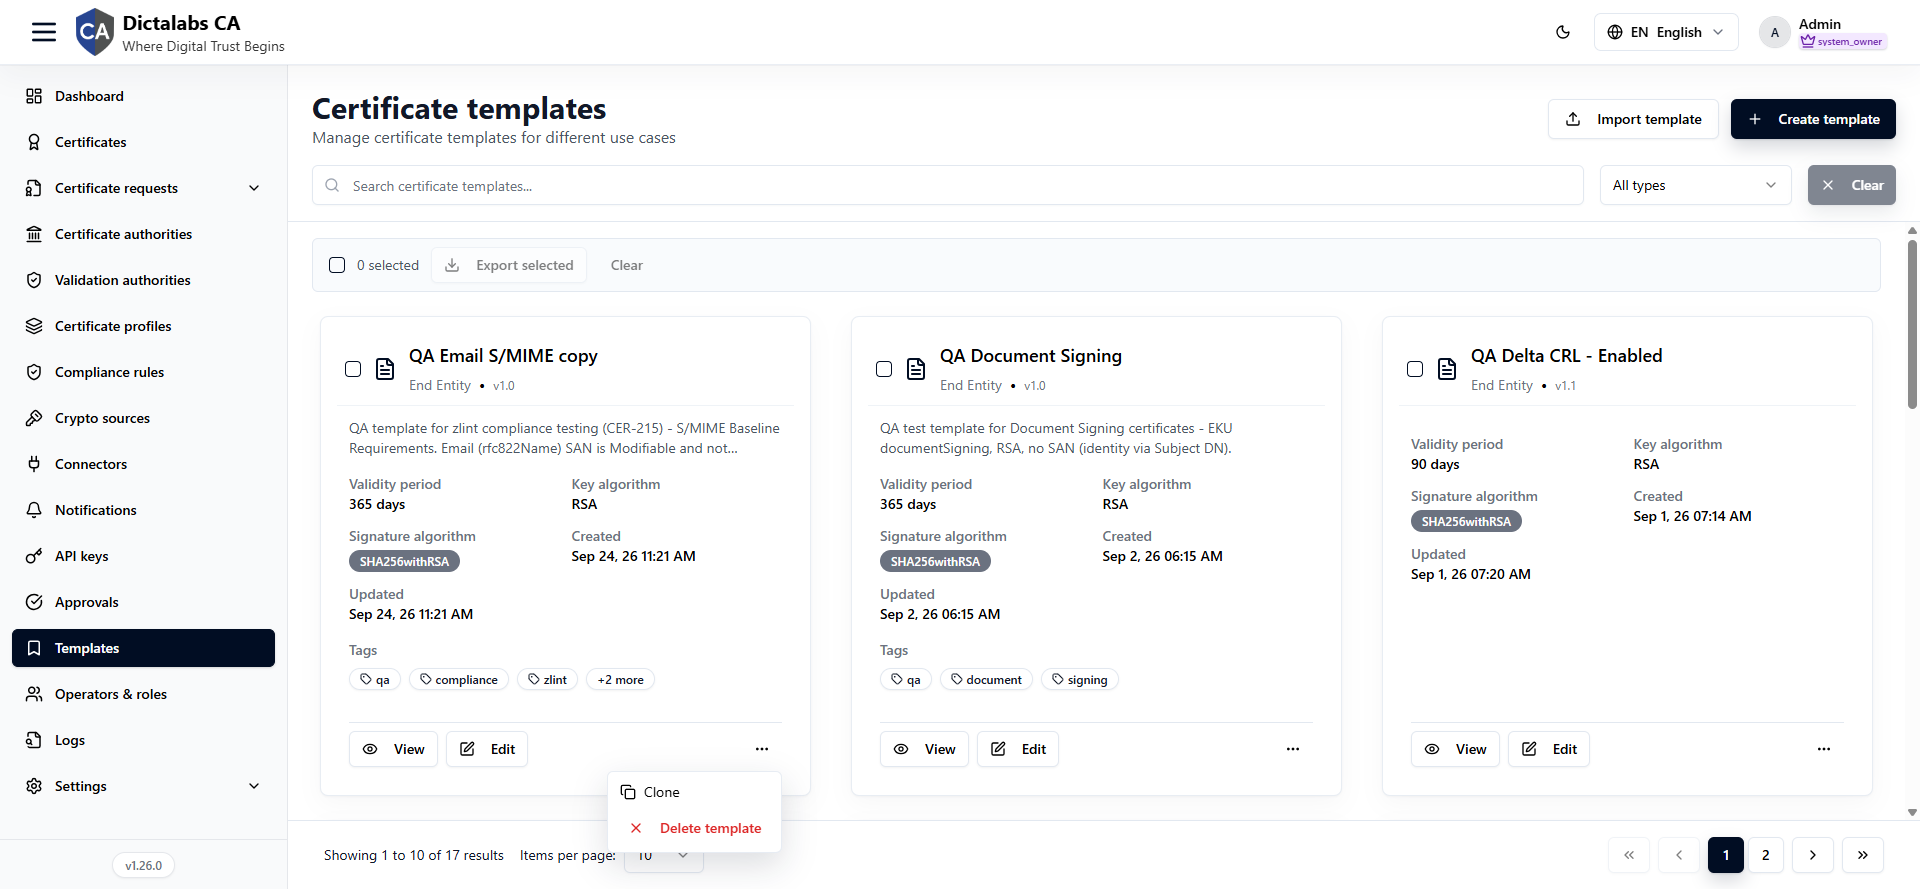
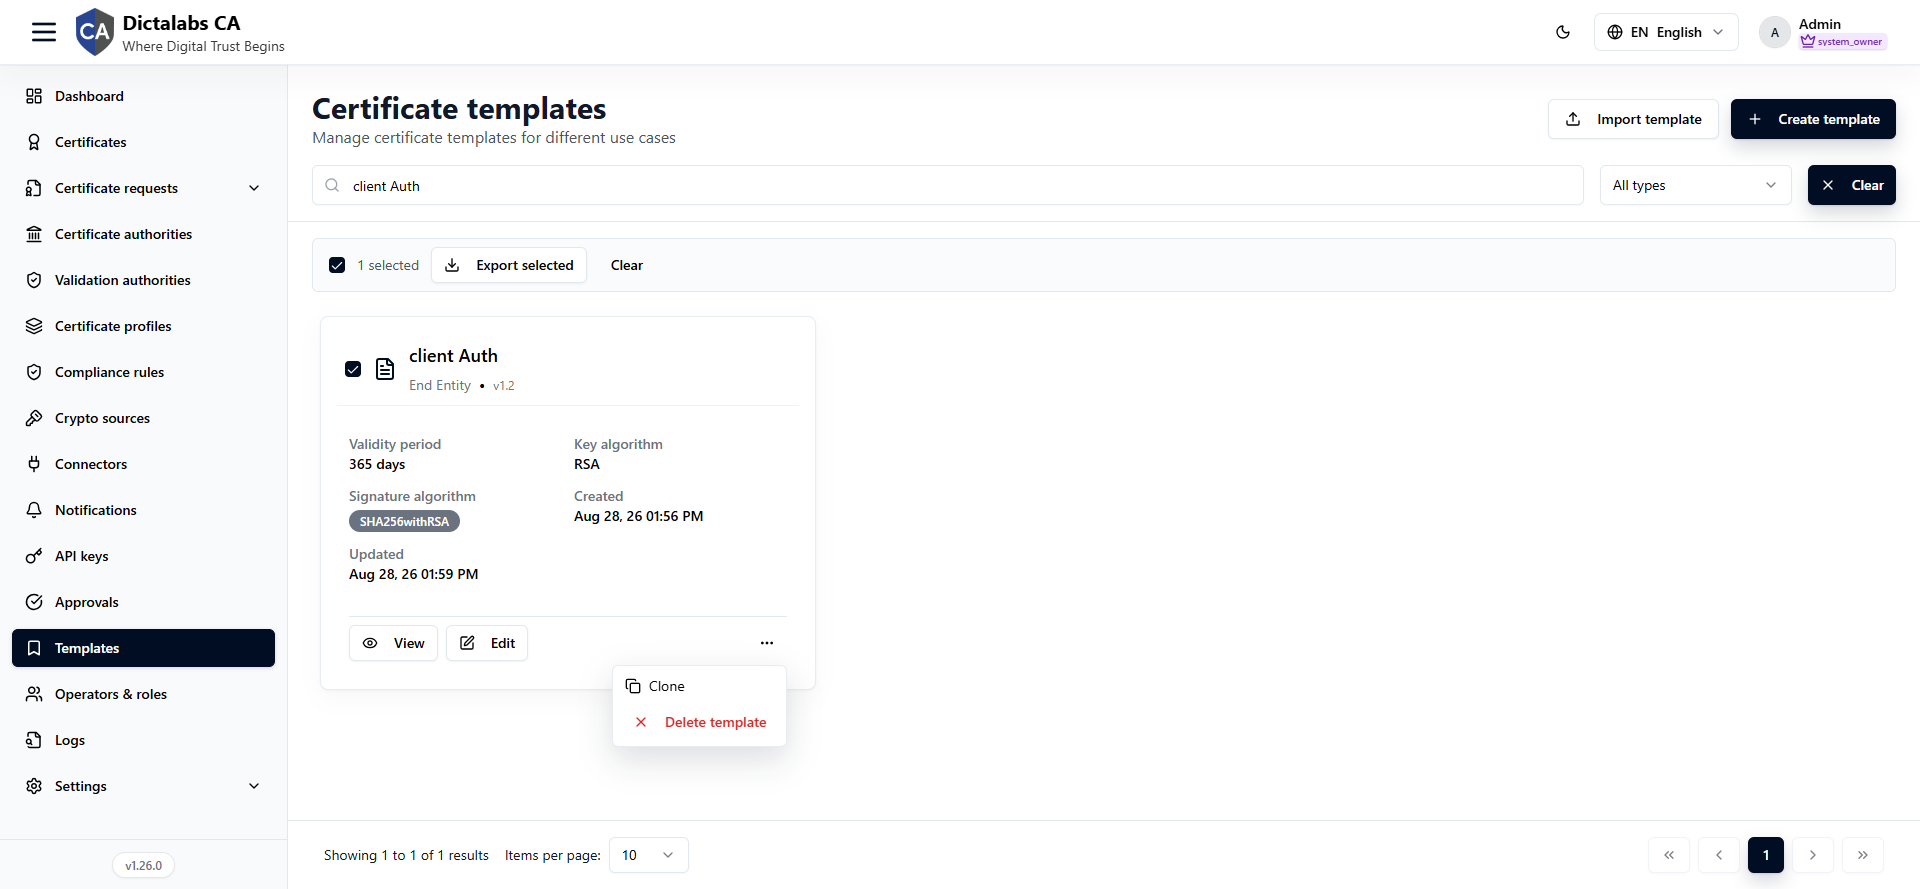
Retake template import/export/clone screenshots without QA names

diff --git a/docs/11_templates.md b/docs/11_templates.md
@@ -58,7 +58,7 @@ re-entering every setting.
 
 1. On a template card, open **More actions → Clone**.
 2. The **Clone template** dialog opens with the full six-tab template form pre-filled from the
-   original; the name defaults to the original name plus " copy" (for example *Email S/MIME copy*). Rename it — template names must be unique.
+   original; the name defaults to the original name plus " copy" (for example *client Auth copy*). Rename it — template names must be unique.
 3. Review and adjust any tab, then click **Create template**. The original is left untouched.
 
 ![Clone template dialog](images/11_clone_template_dialog.png)
